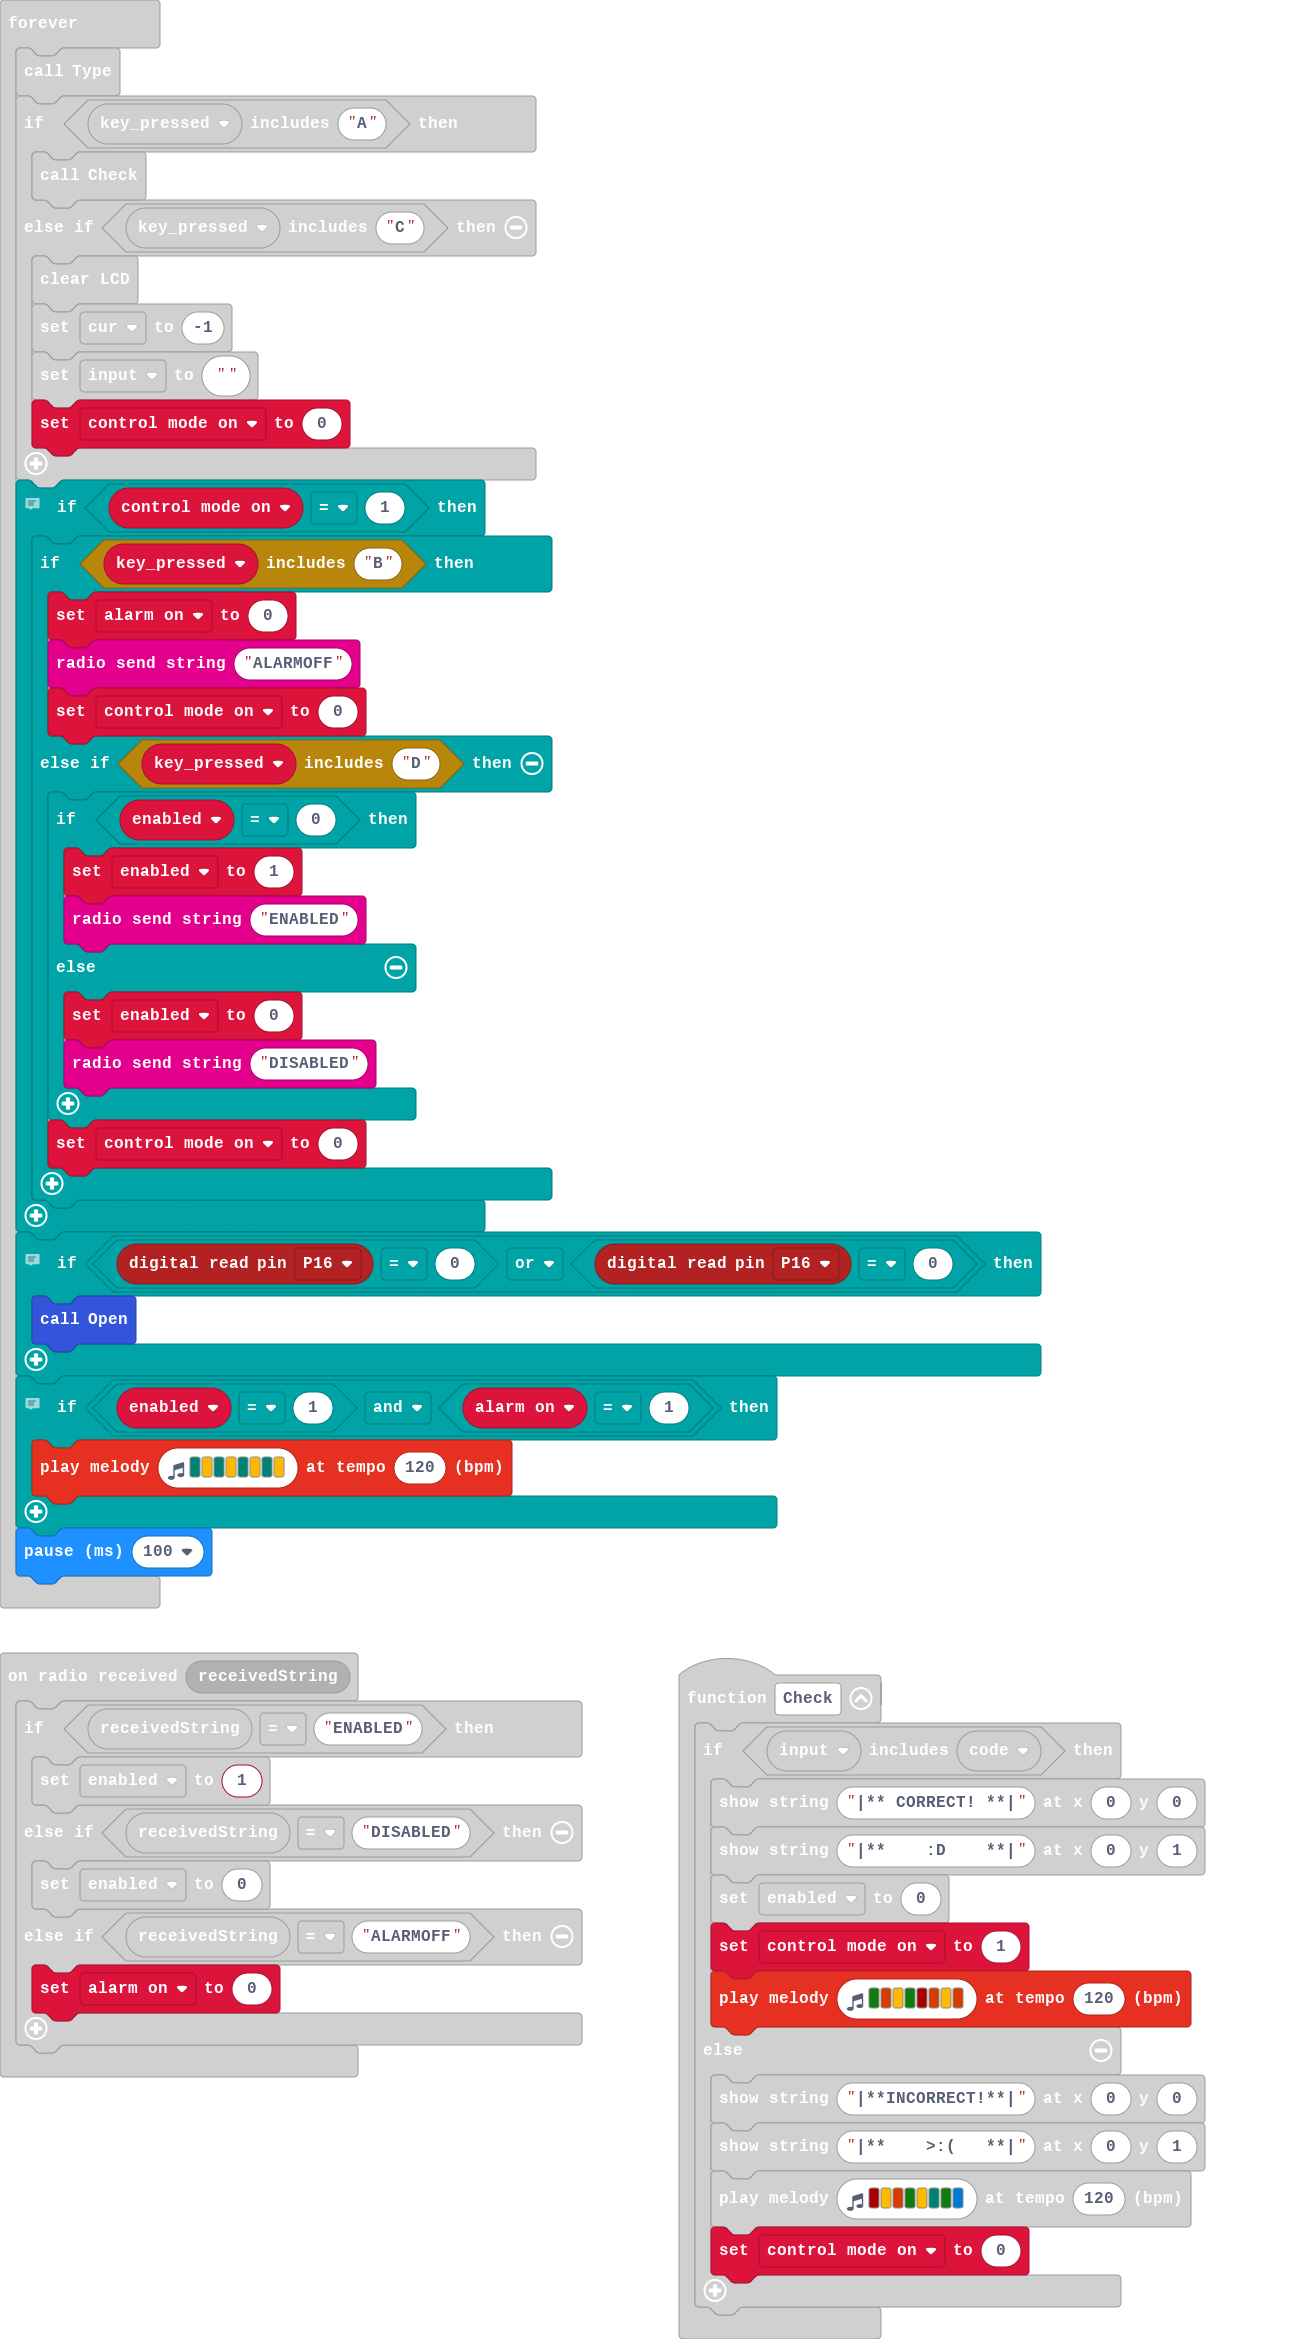
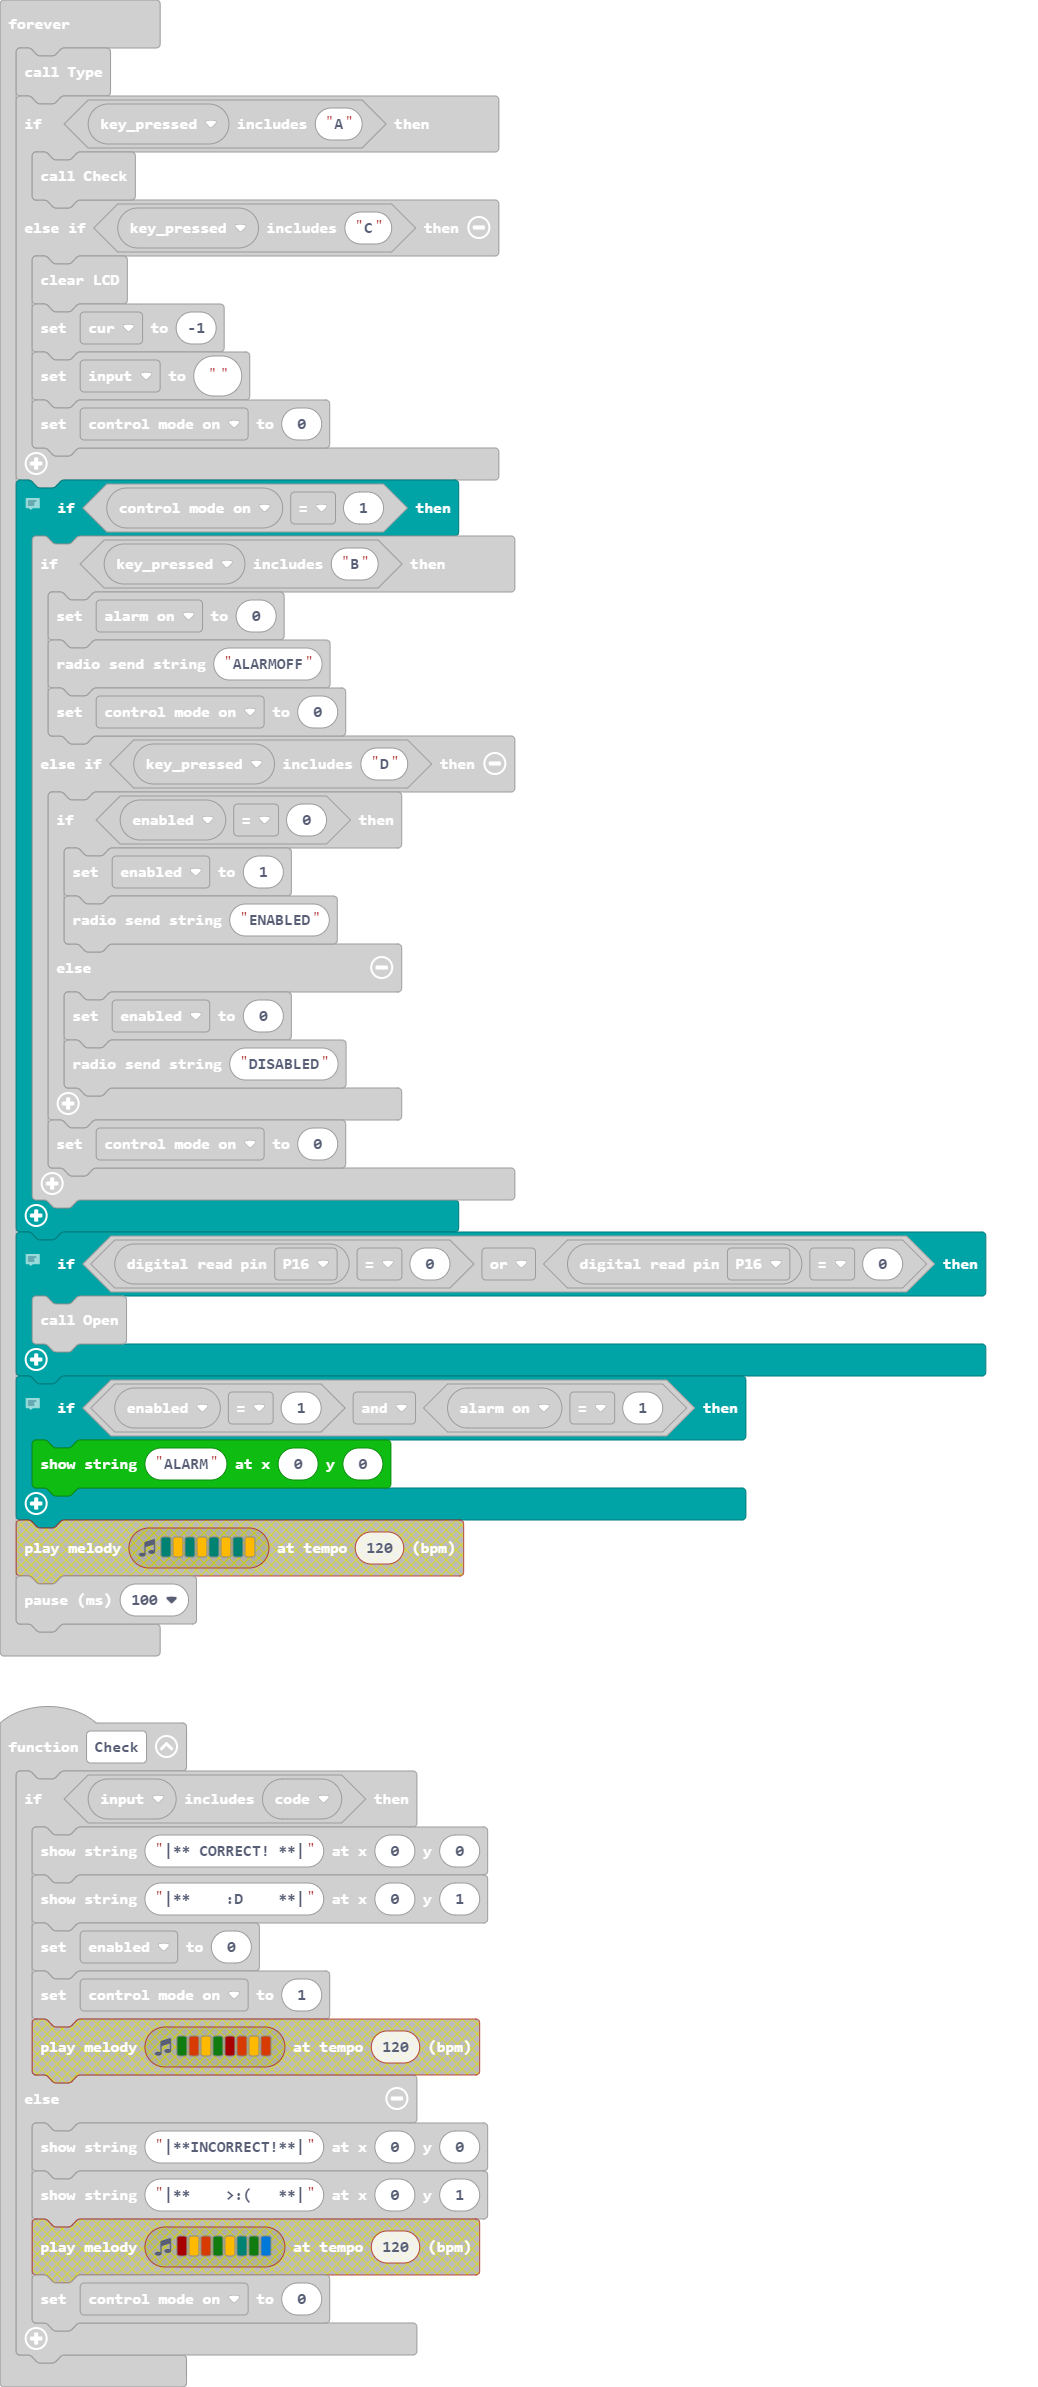
Update main.blocks, main.ts

diff --git a/main.ts b/main.ts
@@ -63,11 +63,9 @@ function Check () {
         I2C_LCD1602.ShowString("|**    :D    **|", 0, 1)
         enabled = 0
         control_mode_on = 1
-        music.playMelody("G B A G C5 B A B ", 120)
     } else {
         I2C_LCD1602.ShowString("|**INCORRECT!**|", 0, 0)
         I2C_LCD1602.ShowString("|**    >:(   **|", 0, 1)
-        music.playMelody("C5 A B G A F G E ", 120)
         control_mode_on = 0
     }
 }
@@ -169,7 +167,7 @@ basic.forever(function () {
     }
     // this is the alarm code
     if (enabled == 1 && alarm_on == 1) {
-        music.playMelody("F A F A F A F A ", 120)
+        I2C_LCD1602.ShowString("ALARM", 0, 0)
     }
     basic.pause(100)
 })
